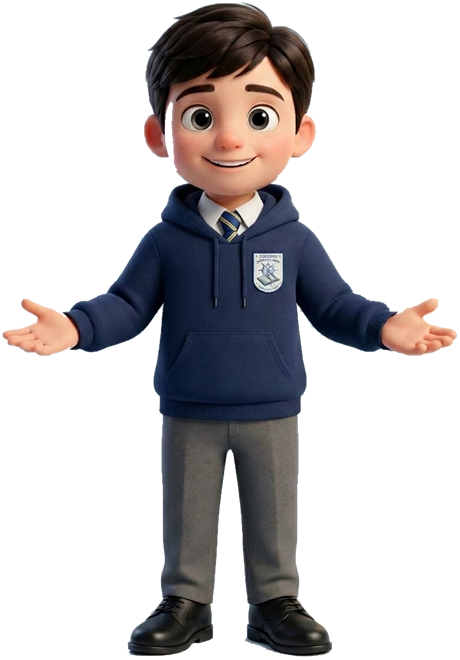
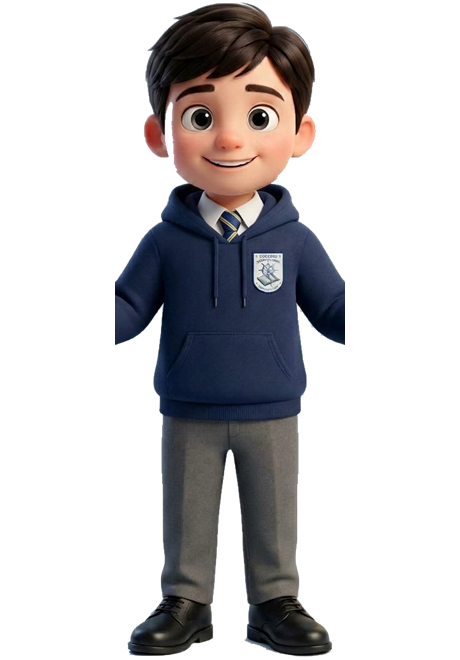
Add files via upload

Changed region(s): [[0.7304, 0.4242, 1.0, 0.5455], [0.0, 0.4242, 0.2739, 0.5455]]

diff --git a/admin.js b/admin.js
@@ -90,6 +90,109 @@
     });
     cerrar(); return html;
   }
+  // ---------- PDF formal del plan de trabajo ----------
+  var JSPDF = "https://cdnjs.cloudflare.com/ajax/libs/jspdf/2.5.1/jspdf.umd.min.js";
+  function latin(s) {
+    return String(s || "").replace(/[→⇒]/g, "->").replace(/[“”]/g, '"').replace(/[‘’]/g, "'").replace(/[●▪■◦]/g, "•").replace(/<br\s*\/?>/gi, " ")
+      .replace(/\*\*([^*]+)\*\*/g, "$1").replace(/`/g, "").replace(/[^\x09\x0A\x0D\x20-\x7E\xA0-\xFF€…•–—]/g, "");
+  }
+  function bloquesMd(t) {
+    var out = [], tabla = [];
+    String(t || "").split("\n").forEach(function (l) {
+      var m;
+      if (/^\s*\|.*\|\s*$/.test(l)) { var cs = l.trim().replace(/^\||\|$/g, "").split("|").map(function (x) { return x.trim(); }); if (!cs.every(function (x) { return /^:?-{2,}:?$/.test(x); })) tabla.push(cs); return; }
+      if (tabla.length) { out.push({ t: "tabla", filas: tabla }); tabla = []; }
+      if ((m = l.match(/^\s*#{1,4}\s+(.*)/))) out.push({ t: "h", x: m[1] });
+      else if ((m = l.match(/^\s*([-*•]|\d+[.)])\s+(.*)/))) out.push({ t: "li", x: m[2], n: /\d/.test(m[1]) ? m[1] : "•" });
+      else if (l.trim()) out.push({ t: "p", x: l });
+    });
+    if (tabla.length) out.push({ t: "tabla", filas: tabla });
+    return out;
+  }
+  function logoData() {
+    return fetch("logo.png").then(function (r) { return r.blob(); }).then(function (b) { return new Promise(function (ok) { var fr = new FileReader(); fr.onload = function () { ok(fr.result); }; fr.readAsDataURL(b); }); }).catch(function () { return null; });
+  }
+  function planPDF(texto, res) {
+    toast("Preparando PDF…");
+    Promise.all([cargar(JSPDF), logoData()]).then(function (v) {
+      var logo = v[1], doc = new window.jspdf.jsPDF({ unit: "mm", format: "a4" }), M = 18, W = 174, y = 0;
+      var info = {}; Object.keys(BASE.info).forEach(function (k) { info[k] = (cat && cat.info && cat.info[k]) || BASE.info[k]; });
+      var AZUL = [14, 42, 104], ORO = [245, 196, 0], TXT = [25, 33, 55];
+      function membrete() {
+        if (logo) try { doc.addImage(logo, "PNG", M, 9, 13.5, 17.4); } catch (e) { }
+        doc.setFont("helvetica", "bold"); doc.setFontSize(13); doc.setTextColor.apply(doc, AZUL); doc.text(latin(info.nombre), M + 17, 15);
+        doc.setFont("helvetica", "normal"); doc.setFontSize(8.5); doc.setTextColor(80, 90, 110);
+        doc.text(latin(info.dependencia + " · RBD " + info.rbd), M + 17, 19.6); doc.text(latin(info.direccion), M + 17, 23.4);
+        doc.setDrawColor.apply(doc, ORO); doc.setLineWidth(1); doc.line(M, 28, 210 - M, 28);
+        doc.setDrawColor.apply(doc, AZUL); doc.setLineWidth(.3); doc.line(M, 29.4, 210 - M, 29.4); y = 37;
+      }
+      function espacio(h) { if (y + h > 277) { doc.addPage(); membrete(); } }
+      function escribir(t, o) {
+        o = o || {}; doc.setFont("helvetica", o.b ? "bold" : (o.i ? "italic" : "normal")); doc.setFontSize(o.tam || 10.5); doc.setTextColor.apply(doc, o.color || TXT);
+        var sang = o.sang || 0, ls = doc.splitTextToSize(latin(t), W - sang), alto = (o.tam || 10.5) * .43;
+        ls.forEach(function (l, k) { espacio(alto + 1); if (k === 0 && o.vin) doc.text(o.vin, M + sang - 5, y); doc.text(l, M + sang, y); y += alto + 1.1; });
+        y += o.desp == null ? 1.8 : o.desp;
+      }
+      function tabla(filas, anchos) {
+        var nc = filas[0].length; anchos = anchos || filas[0].map(function () { return W / nc; }); doc.setFontSize(9);
+        filas.forEach(function (f, fi) {
+          var celdas = f.map(function (cx, ci) { return doc.splitTextToSize(latin(cx), anchos[ci] - 3); }), h = Math.max.apply(null, celdas.map(function (cx) { return cx.length; })) * 3.9 + 3, x = M;
+          espacio(h + 1);
+          celdas.forEach(function (cx, ci) {
+            if (fi === 0) { doc.setFillColor.apply(doc, AZUL); doc.rect(x, y - 3.5, anchos[ci], h, "F"); doc.setTextColor(255, 255, 255); doc.setFont("helvetica", "bold"); }
+            else { if (fi % 2 === 0) { doc.setFillColor(242, 246, 252); doc.rect(x, y - 3.5, anchos[ci], h, "F"); } doc.setDrawColor(214, 224, 240); doc.rect(x, y - 3.5, anchos[ci], h); doc.setTextColor.apply(doc, TXT); doc.setFont("helvetica", "normal"); }
+            cx.forEach(function (l, k) { doc.text(l, x + 1.5, y + k * 3.9); }); x += anchos[ci];
+          });
+          y += h;
+        });
+        y += 5;
+      }
+      membrete();
+      doc.setFont("helvetica", "bold"); doc.setFontSize(15); doc.setTextColor.apply(doc, AZUL);
+      doc.splitTextToSize("Plan de trabajo para la apropiación del Reglamento Interno y del Reglamento de Evaluación", W).forEach(function (l) { doc.text(latin(l), M, y); y += 6.5; });
+      y += 1;
+      var filasFicha = [["Fecha", new Date().toLocaleDateString("es-CL", { year: "numeric", month: "long", day: "numeric" })], ["Período analizado", res.mes || "Todo el registro"],
+        ["Rol analizado", res.rol || "Todos los roles"], ["Consultas analizadas", String(res.total || 0)], ["Fuente", "Estadísticas anónimas del asistente Timón (solo tema general y rol)"]];
+      doc.setFontSize(10); var altoF = 6 + filasFicha.length * 5.4;
+      doc.setFillColor(238, 243, 251); doc.setDrawColor(214, 224, 240); doc.roundedRect(M, y - 4, W, altoF, 2.5, 2.5, "FD");
+      filasFicha.forEach(function (f) { doc.setFont("helvetica", "bold"); doc.setTextColor.apply(doc, AZUL); doc.text(f[0] + ":", M + 4, y + 1); doc.setFont("helvetica", "normal"); doc.setTextColor.apply(doc, TXT); doc.text(latin(f[1]), M + 48, y + 1); y += 5.4; });
+      y += 8;
+      escribir("1. Resumen de las consultas", { b: true, tam: 12.5, color: AZUL, desp: 2 });
+      if (res.temas && res.temas.length) tabla([["Tema", "Consultas", "%"]].concat(res.temas.map(function (t) { return [t[0], String(t[1]), Math.round(t[1] * 100 / res.total) + "%"]; })), [124, 25, 25]);
+      if (res.roles && res.roles.length) tabla([["Rol", "Consultas", "Principal duda"]].concat(res.roles.map(function (r) { return [r[0], String(r[1]), r[2]]; })), [62, 25, 87]);
+      escribir("2. Propuesta de plan de trabajo", { b: true, tam: 12.5, color: AZUL, desp: 2 });
+      bloquesMd(texto).forEach(function (b) {
+        if (b.t === "h") { y += 1.5; espacio(10); escribir(b.x, { b: true, tam: 11.5, color: AZUL, desp: 1 }); }
+        else if (b.t === "p") escribir(b.x);
+        else if (b.t === "li") escribir(b.x, { sang: 6, vin: b.n, desp: .6 });
+        else if (b.t === "tabla") tabla(b.filas);
+      });
+      // Validación
+      y += 4; espacio(42);
+      escribir("3. Validación", { b: true, tam: 12.5, color: AZUL, desp: 6 });
+      doc.setFontSize(9.5); doc.setTextColor.apply(doc, TXT); doc.setFont("helvetica", "normal");
+      [["Elaborado por", M], ["Revisado por (UTP / Convivencia)", M + 60], ["Aprobado por (Dirección)", M + 120]].forEach(function (f) {
+        doc.setDrawColor(120, 130, 150); doc.line(f[1], y + 8, f[1] + 52, y + 8); doc.text(latin(f[0]), f[1], y + 13);
+      });
+      y += 22;
+      // Nota IA
+      espacio(22);
+      var nota = "Nota: la propuesta fue generada con apoyo de inteligencia artificial a partir de estadísticas anónimas de consultas (solo tema general y rol, sin datos personales, Ley N° 21.719). Debe ser revisada, ajustada y validada por el equipo directivo antes de su aplicación.";
+      doc.setFontSize(8.8); var ln = doc.splitTextToSize(latin(nota), W - 8);
+      doc.setFillColor(255, 248, 214); doc.setDrawColor(217, 164, 0); doc.roundedRect(M, y - 4, W, ln.length * 3.9 + 5, 2, 2, "FD");
+      doc.setFont("helvetica", "italic"); doc.setTextColor(90, 70, 0); ln.forEach(function (l, k) { doc.text(l, M + 4, y + .5 + k * 3.9); });
+      var n = doc.getNumberOfPages();
+      for (var i = 1; i <= n; i++) {
+        doc.setPage(i); doc.setDrawColor(214, 224, 240); doc.setLineWidth(.3); doc.line(M, 284, 210 - M, 284);
+        doc.setFont("helvetica", "normal"); doc.setFontSize(8); doc.setTextColor(110, 120, 140);
+        doc.text(latin("Plan de trabajo · " + info.nombre + " · Generado con el asistente Timón"), M, 289);
+        doc.text("Página " + i + " de " + n, 210 - M, 289, { align: "right" });
+      }
+      doc.save("Plan_de_trabajo_Reglamento_" + new Date().toISOString().slice(0, 10) + ".pdf");
+      toast("PDF descargado");
+    }).catch(function () { toast("No se pudo crear el PDF. Revise su conexión.", 4000); });
+  }
+
   function pStats(c) {
     c.innerHTML = '<div class="tarjeta"><p>Cargando estadísticas…</p></div>';
     api({ accion: "estadisticas" }).then(function (j) {
@@ -100,6 +203,9 @@
       c.innerHTML = '<div class="tarjeta"><h2>' + I.grafico + ' Estadísticas de consultas</h2><p class="ayuda">Se cuenta solo el <b>tema general</b> y el <b>rol</b> de cada consulta, de forma anónima (nunca el texto). Úselo para detectar las principales dudas de cada estamento y orientar un plan de trabajo de apropiación del reglamento.</p>' +
         '<div class="rejilla" style="max-width:560px"><div class="campo"><label for="fMes">Período</label><select id="fMes"><option value="">Todo el registro</option>' + meses.slice().reverse().map(function (m) { return "<option>" + esc(m) + "</option>"; }).join("") + "</select></div>" +
         '<div class="campo"><label for="fRol">Rol</label><select id="fRol"><option value="">Todos los roles</option>' + rolesTodos.map(function (r) { return "<option>" + esc(r) + "</option>"; }).join("") + "</select></div></div>" +
+        '<div class="acciones-fila" style="margin:0 0 12px;align-items:center"><button class="boton sec" id="btnActualizar" type="button">↻ Actualizar conteo</button>' +
+        '<button class="boton peligro" id="btnReiniciar" type="button">' + I.basura + ' Reiniciar conteo</button><span class="contador" id="contador">Total registrado: <b>' +
+        filas.reduce(function (a, f) { return a + f.n; }, 0) + "</b> consultas · actualizado a las " + new Date().toLocaleTimeString("es-CL", { hour: "2-digit", minute: "2-digit" }) + "</span></div>" +
         '<div id="kpis" class="kpis"></div>' +
         '<div class="graf-caja"><h3>Consultas por rol y su principal duda</h3><div id="tablaRoles"></div></div>' +
         '<div class="rejilla"><div class="graf-caja"><h3>Consultas por rol</h3><div style="position:relative;height:250px"><canvas id="gRoles"></canvas></div></div><div class="graf-caja"><h3>Evolución mensual</h3><div style="position:relative;height:250px"><canvas id="gMeses"></canvas></div></div></div>' +
@@ -108,6 +214,15 @@
         '<div class="graf-caja"><h3>Temas consultados (total)</h3><div style="position:relative;height:340px"><canvas id="gTemas"></canvas></div><div id="tablaTemas"></div></div>' +
         '<div class="acciones-fila"><button class="boton" id="btnPlan">' + I.brujula + ' Generar plan de trabajo con IA</button><button class="boton sec" id="btnCsv">' + I.archivo + ' Descargar datos (CSV)</button></div><div id="plan"></div></div>';
       function corto(t, max) { return t.length > max ? t.slice(0, max - 1) + "…" : t; }
+      var resumen = null;
+      $("#btnActualizar").onclick = function () { pStats(c); };
+      $("#btnReiniciar").onclick = function () {
+        if (!confirm("¿Reiniciar el conteo de consultas a cero?\n\nSe guardará una copia de respaldo en la hoja de datos de Drive (pestaña \"Respaldo\").")) return;
+        api({ accion: "reiniciar_estadisticas" }).then(function (r) {
+          if (r.ok) { toast(r.respaldo ? "Conteo reiniciado. Respaldo: " + r.respaldo : "Conteo reiniciado", 4000); pStats(c); }
+          else msg(c, "mal", r.error || "No se pudo reiniciar");
+        }).catch(function () { });
+      };
       function dibujar() {
         var mes = $("#fMes").value, rolF = $("#fRol").value, porTema = {}, porRol = {}, porMes = {}, cruce = {}, total = 0;
         filas.forEach(function (f) {
@@ -118,6 +233,7 @@
         });
         var temas = Object.keys(porTema).sort(function (a, b) { return porTema[b] - porTema[a]; }), roles = Object.keys(porRol).sort(function (a, b) { return porRol[b] - porRol[a]; });
         function principal(r) { return Object.keys(cruce[r]).sort(function (a, b) { return cruce[r][b] - cruce[r][a]; })[0]; }
+        resumen = { mes: mes, rol: rolF, total: total, temas: temas.map(function (t) { return [t, porTema[t]]; }), roles: roles.map(function (r) { return [r, porRol[r], principal(r)]; }) };
         $("#kpis").innerHTML = [["Consultas", total], ["Tema principal", temas[0] || "—"], ["Rol que más consulta", roles[0] || "—"]].map(function (k) { return '<div class="kpi"><b>' + esc(k[1]) + "</b><span>" + esc(k[0]) + "</span></div>"; }).join("");
         var vacio = '<div class="mensaje info">Aún no hay consultas registradas para este filtro. Aparecerán a medida que la comunidad use el chat (después de actualizar Apps Script y GitHub).</div>';
         $("#tablaRoles").innerHTML = total ? '<table class="tabla-stats"><tr><th>Rol</th><th>Consultas</th><th>%</th><th>Principal duda</th></tr>' + roles.map(function (r) {
@@ -147,9 +263,13 @@
       };
       $("#btnPlan").onclick = function () {
         var b = this; b.disabled = true; $("#plan").innerHTML = '<div class="mensaje info">Preparando la propuesta de plan de trabajo por rol…</div>';
+        var foto = JSON.parse(JSON.stringify(resumen || {}));
         api({ accion: "plan_trabajo", mes: $("#fMes").value, rol: $("#fRol").value }).then(function (r) {
           b.disabled = false;
-          $("#plan").innerHTML = r.ok ? '<div class="plan-caja">' + mdSimple(r.texto) + '<p class="ayuda" style="font-size:.8rem">Propuesta generada con IA a partir de ' + r.total + " consultas. Revísela y ajústela con el equipo directivo.</p></div>" : '<div class="mensaje mal">' + esc(r.error) + "</div>";
+          if (!r.ok) { $("#plan").innerHTML = '<div class="mensaje mal">' + esc(r.error) + "</div>"; return; }
+          $("#plan").innerHTML = '<div class="plan-caja"><div class="acciones-fila" style="margin:0 0 10px"><button class="boton amarillo" id="btnPlanPdf" type="button">' + I.archivo + ' Descargar plan en PDF</button></div>' +
+            mdSimple(r.texto) + '<p class="ayuda" style="font-size:.8rem">Propuesta generada con IA a partir de ' + r.total + " consultas. Revísela y ajústela con el equipo directivo.</p></div>";
+          $("#btnPlanPdf").onclick = function () { planPDF(r.texto, foto); };
         }).catch(function () { b.disabled = false; });
       };
     }).catch(function () { });

diff --git a/app.js b/app.js
@@ -170,8 +170,8 @@
   var EVAL = /evaluaci|calific|nota|prueba|promoci|repit|examen|reevalu|eximi|adecuaci|asistencia/i;
   // Temas generales (solo se cuenta el tema, de forma anónima, para las estadísticas del panel)
   var TEMAS = [
-    ["Protección de derechos y salud mental", /vulnera|abuso|connotaci[oó]n sexual|agresi[oó]n sexual|suicid|autoles|droga|alcohol|embaraz|maternidad|paternidad|medicament/i],
-    ["Acoso, violencia y maltrato", /acoso|bullying|ciberacoso|ciberbullying|violen|agresi|pelea|golpe|maltrato|discrimin|amenaz/i],
+    ["Protección de derechos y salud mental", /vulnera|abuso|connotaci[oó]n sexual|agresi[oó]n sexual|suicid|autoles|droga|marihuana|alcohol|embaraz|maternidad|paternidad|medicament/i],
+    ["Acoso, violencia y maltrato", /\bpeg[oóaué]|pegar|patad|pu[nñ]et|\bcombos?\b|herid|acoso|bullying|ciberacoso|ciberbullying|violen|agresi|pelea|golpe|maltrato|discrimin|amenaz/i],
     ["Faltas, medidas y debido proceso", /falta|sanci[oó]n|sanciones|medida|suspen|expuls|cancelaci[oó]n|condicional|debido proceso|anotaci|disciplin|aula segura/i],
     ["Inclusión, NEE, PIE y TEA", /\bpie\b|\bnee\b|\btea\b|autis|adecuaci|\bpaci\b|\bpai\b|diversific|diferenciad|desregula|inclusi/i],
     ["Promoción, asistencia y repitencia", /promoci|repit|asistencia|inasistencia|cierre anticipado|85 ?%/i],
@@ -181,7 +181,14 @@
     ["Normas generales (uniforme, horarios, celular)", /uniforme|presentaci[oó]n personal|celular|horario|atraso|puntualidad|recreo|comedor|laboratorio/i],
     ["PEI, misión y sellos", /\bpei\b|misi[oó]n|visi[oó]n|sello|valores/i]
   ];
-  function clasificarTema(t) { for (var i = 0; i < TEMAS.length; i++) if (TEMAS[i][1].test(t)) return TEMAS[i][0]; return "Otros temas"; }
+  function esAusenciaEvaluacion(t) { return INTENCIONES[0][0].test(t); }   // "faltó a una prueba" no es una falta disciplinaria
+  function clasificarTema(t) {
+    if (esAusenciaEvaluacion(t) && !/sanci|anotaci|disciplin|copi|plagi/i.test(t)) return "Evaluación y calificaciones";
+    for (var i = 0; i < TEMAS.length; i++) if (TEMAS[i][1].test(t)) return TEMAS[i][0]; return "Otros temas"; }
+  // Hechos que podrían ser delito: se agrega la revisión penal (denuncia, Ley 20.084, Código Penal y Civil)
+  var RE_DELITO = /\bpeg[oóaué]|pegar|patad|pu[nñ]et|\bcombos?\b|herid|sangr|quebr|fractur|golpe|golpi|agresi[oó]n f[ií]sica|agredi|lesi[oó]n|lesiones|pelea|amenaz|abus|acoso sexual|connotaci[oó]n sexual|violaci[oó]n|tocaci|grooming|im[aá]genes [ií]ntimas|fotos [ií]ntimas|video [ií]ntimo|nudes|sexting|droga|marihuana|tr[aá]fico|microtr[aá]fico|\barmas?\b|cuchillo|navaja|pistola|robo|rob[oó]|hurt|da[nñ]os? a|destroz|vandal|incendi|extorsi|maltrato (f[ií]sico|de un adulto|por parte)|funcionario (agred|golpe|maltrat)|ciberacoso|suplantaci[oó]n de identidad|delito/i;
+  // Consultas donde conviene recordar derechos de los estudiantes (LGE arts. 10, 10 bis y 11)
+  var RE_DERECHOS = /derecho|celular|tel[eé]fono|dispositivo|embaraz|maternidad|paternidad|matr[ií]cula|repit|discrimin|medicament|tdah|identidad de g[eé]nero|nombre social|religi|opini[oó]n|inclusi|\btea\b|autis|\bnee\b|\bpie\b|expuls|cancelaci|suspen|condicional|uniforme|corte de pelo|cabello|retir/i;
   var RE_DISCIPLINA = /falta|sanci[oó]n|sanciones|medida disciplin|suspen|expuls|cancelaci[oó]n de matr|condicionalidad|debido proceso|aula segura|anotaci/i;
   function buscar(consulta, k) {
     if (!indice) construirIndice();
@@ -218,7 +225,7 @@
   }
   function normativaPara(consulta, n) {
     var q = terminos(consulta, true), lista = BASE.normativa.concat([]);
-    return lista.map(function (x) { var t = terminos(x.claves + " " + x.titulo), s = 0; q.forEach(function (w) { if (t.indexOf(w) >= 0) s++; }); return { x: x, s: s }; })
+    return lista.map(function (x) { var t = terminos(x.claves), s = 0; q.forEach(function (w) { if (t.indexOf(w) >= 0) s++; }); return { x: x, s: s }; })
       .filter(function (o) { return o.s > 0; }).sort(function (a, b) { return b.s - a.s; }).slice(0, n || 4).map(function (o) { return o.x; });
   }
   function fuentesPara(consulta, n) {
@@ -340,6 +347,7 @@
   function mascotaHTML(clase) {
     var d = "animation-delay:" + (Math.random() * 3).toFixed(2) + "s", d2 = "animation-delay:-" + (Math.random() * 2).toFixed(2) + "s";
     return '<div class="mascota ' + (clase || "") + '" style="' + d2 + '"><div class="encuadre"><img src="estudiante.png" alt="">' +
+      '<img class="brazo izq" src="brazo-izq.png" alt=""><img class="brazo der" src="brazo-der.png" alt="">' +
       '<span class="boca"></span><span class="parpado izq" style="' + d + '"></span><span class="parpado der" style="' + d + '"></span></div></div>';
   }
   function bajar() { setTimeout(function () { chat.scrollTo({ top: chat.scrollHeight, behavior: "auto" }); }, 30); }
@@ -466,6 +474,7 @@
     return x.replace(/(^|\n)\s*[-*]\s+/g, "$1• ").replace(/\n/g, "<br>");
   }
   var ICONOS_TITULO = [
+    [/delito|denuncia/i, "alerta", "#8E1B1B"],
     [/ajusta a derecho|a derecho/i, "balanza", "#C0392B"],
     [/en breve|resumen/i, "bombilla", "#D9A400"],
     [/profundizar/i, "timon", "#0E2A68"],
@@ -620,13 +629,27 @@
     if (!opts.sinEco) msgYo(texto);
     if (estado.pasoPerfil !== "listo") estado.pasoPerfil = "listo"; // nunca obligamos a marcar el perfil
     var consultaBusqueda = opts.esRespuesta ? ultimaConsulta() + " " + texto : texto;
-    var frags = buscar(consultaBusqueda, 5);
-    var tema = clasificarTema(consultaBusqueda), disciplinario = tema === "Faltas, medidas y debido proceso" || RE_DISCIPLINA.test(consultaBusqueda);
+    var frags = buscar(consultaBusqueda, 4);
+    var tema = clasificarTema(consultaBusqueda), delito = RE_DELITO.test(consultaBusqueda);
+    var disciplinario = delito || tema === "Faltas, medidas y debido proceso" || (RE_DISCIPLINA.test(consultaBusqueda) && !(esAusenciaEvaluacion(consultaBusqueda) && !/sanci|anotaci|disciplin|suspen|expuls/i.test(consultaBusqueda)));
     var normativa = normativaPara(consultaBusqueda, 5);
-    if (disciplinario) ["20370", "20536", "21128", "21430"].forEach(function (n) {
-      var x = BASE.normativa.filter(function (k) { return k.url.indexOf("idLey=" + n) > 0; })[0];
+    function agregarNorma(id) {
+      var x = BASE.normativa.filter(function (k) { return k.url.slice(-(id.length + 1)) === "=" + id || k.url.indexOf("=" + id + "&") > 0; })[0];
       if (x && normativa.indexOf(x) < 0) normativa.push(x);
-    });
+    }
+    var derechos = RE_DERECHOS.test(consultaBusqueda);
+    if (derechos) agregarNorma("20370");
+    if (disciplinario) ["20370", "20536", "21128", "21430"].forEach(agregarNorma);
+    if (delito) {
+      var previas = normativa.filter(function (n) { return n.categoria !== "Responsabilidad penal y civil" && n.categoria !== "Inclusión y diversidad" && n.categoria !== "Evaluación y currículum"; });
+      normativa = [];
+      ["19696", "1984", "20084", "172986", "19968"].forEach(agregarNorma);
+      if (/droga|marihuana|tr[aá]fico/i.test(consultaBusqueda)) agregarNorma("20000");
+      if (/\barmas?\b|cuchillo|navaja|pistola/i.test(consultaBusqueda)) agregarNorma("17798");
+      previas.forEach(function (n) { if (normativa.indexOf(n) < 0) normativa.push(n); });
+      if (/\btea\b|autis/i.test(consultaBusqueda)) agregarNorma("21545");
+    }
+    normativa = normativa.slice(0, 12);
     // Mensaje de espera: Timón (cuerpo completo) "habla" mientras se prepara la respuesta
     var pensando = el("div", "msg ia pensando");
     pensando.innerHTML = '<div class="avatar grande">' + mascotaHTML("hablando") + '</div><div class="burbuja"><div class="escribiendo"><i></i><i></i><i></i><span>Revisando el Reglamento Interno…</span></div></div>';
@@ -637,10 +660,10 @@
 
     var cat = catalogoEfectivo();
     var payload = {
-      accion: "chat", consulta: texto, modo: "chat", web: estado.web, tema: tema, disciplinario: disciplinario,
-      historial: estado.mensajes.slice(-6).map(function (m) { return { role: m.role, content: m.content.slice(0, 1500) }; }),
+      accion: "chat", consulta: texto, modo: "chat", web: estado.web, tema: tema, disciplinario: disciplinario, delito: delito, derechos: derechos, video: /video|youtube/i.test(texto),
+      historial: estado.mensajes.slice(-4).map(function (m) { return { role: m.role, content: m.content.slice(0, 900) }; }),
       perfil: estado.perfil,
-      fragmentos: frags.map(function (r) { return { fuente: etiquetaFuente(r.f), texto: r.f.t.slice(0, 1400) }; }),
+      fragmentos: frags.map(function (r) { return { fuente: etiquetaFuente(r.f), texto: r.f.t.slice(0, 1150) }; }),
       normativa: normativa.map(function (n) { return n.titulo + " → " + n.url; }),
       pei: { mision: cat.pei.mision, vision: cat.pei.vision, sellos: cat.pei.sellos, valores: cat.pei.valores, historia: (cat.pei.historia || "").slice(0, 600) },
       info: cat.info, fecha: new Date().toISOString().slice(0, 10)
@@ -652,6 +675,8 @@
       mostrarRespuesta({ consulta: texto, texto: resp.texto, frags: frags, normativa: normativa, local: !!local, videos: resp.videos || [], aviso: resp.aviso, busqueda: consultaBusqueda,
         servidor: (resp.fuentesServidor || []).filter(function (s) { return s && s.titulo && new RegExp("\\[S\\d\\]|" + String(s.titulo).slice(0, 20).replace(/[.*+?^${}()|[\]\\]/g, "\\$&"), "i").test(resp.texto); }) });
     };
+    // Estadística anónima (tema y rol) en paralelo: no retrasa la respuesta
+    if (URL_SERVIDOR) fetch(URL_SERVIDOR, { method: "POST", headers: { "Content-Type": "text/plain;charset=utf-8" }, body: JSON.stringify({ accion: "contar", tema: tema, rol: estado.perfil.rol }) }).catch(function () { });
     if (!URL_SERVIDOR) { setTimeout(function () { fin({ texto: respuestaLocal(consultaBusqueda, frags, normativa, "sin-servidor") }, true); }, 500); return; }
     pedirIA(payload, 0).then(function (r) {
       if (r && r.ok && r.texto) { marcarEstado("ok"); fin(r, false); }
@@ -757,7 +782,7 @@
     if (matchMedia("(prefers-reduced-motion: reduce)").matches) { hablar(m, 4000); return; } // sin efecto de escritura, pero Timón igual habla
     var largos = partes.map(function (p) { return Math.max(20, (p.textContent || "").length); });
     var total = largos.reduce(function (a, b) { return a + b; }, 0);
-    var tiempo = Math.min(16000, Math.max(2500, total * 9));        // duración total de la "escritura"
+    var tiempo = Math.min(5000, Math.max(1200, total * 3.5));       // duración total de la "escritura" (rápida)
     var seguir = true, terminado = false, k = 0, reloj = null;
     partes.forEach(function (p) { p.classList.add("por-mostrar"); });
     m.classList.add("escribiendo-respuesta");

diff --git a/datos.js b/datos.js
@@ -45,7 +45,7 @@ window.DATOS_BASE = {
   ],
   /* Normativa con enlaces verificados en la Biblioteca del Congreso Nacional (BCN) */
   normativa: [
-    { titulo: "Ley 20.370 – Ley General de Educación", url: "https://www.bcn.cl/leychile/navegar?idLey=20370", categoria: "Leyes generales", claves: "lge ley general educacion derechos deberes reglamento interno" },
+    { titulo: "Ley 20.370 – Ley General de Educación", url: "https://www.bcn.cl/leychile/navegar?idLey=20370", categoria: "Leyes generales", claves: "lge ley general educacion derechos deberes reglamento interno celular celulares dispositivos moviles embarazo maternidad matricula" },
     { titulo: "Ley 21.040 – Sistema de Educación Pública (SLEP)", url: "https://www.bcn.cl/leychile/navegar?idLey=21040", categoria: "Leyes generales", claves: "slep servicio local educacion publica nep" },
     { titulo: "Ley 20.529 – Sistema de Aseguramiento de la Calidad", url: "https://www.bcn.cl/leychile/navegar?idLey=20529", categoria: "Leyes generales", claves: "calidad superintendencia agencia sac" },
     { titulo: "Ley 20.536 – Sobre Violencia Escolar", url: "https://www.bcn.cl/leychile/navegar?idLey=20536", categoria: "Convivencia escolar", claves: "violencia escolar acoso bullying maltrato convivencia encargado" },
@@ -62,6 +62,13 @@ window.DATOS_BASE = {
     { titulo: "Ley 20.903 – Sistema de Desarrollo Profesional Docente", url: "https://www.bcn.cl/leychile/navegar?idLey=20903", categoria: "Funcionarios", claves: "carrera docente desarrollo profesional mentoria" },
     { titulo: "Ley 21.109 – Estatuto de Asistentes de la Educación Pública", url: "https://www.bcn.cl/leychile/navegar?idLey=21109", categoria: "Funcionarios", claves: "asistentes educacion estatuto funciones" },
     { titulo: "Ley 21.643 – Ley Karin (acoso laboral y sexual)", url: "https://www.bcn.cl/leychile/navegar?idLey=21643", categoria: "Funcionarios", claves: "karin acoso laboral sexual violencia trabajo funcionarios" },
+    { titulo: "Código Procesal Penal – Obligación de denunciar (arts. 175 a 177)", url: "https://www.bcn.cl/leychile/navegar?idLey=19696", categoria: "Responsabilidad penal y civil", claves: "denuncia denunciar obligacion fiscalia carabineros pdi 24 horas delito" },
+    { titulo: "Código Penal", url: "https://www.bcn.cl/leychile/navegar?idNorma=1984", categoria: "Responsabilidad penal y civil", claves: "delito lesiones amenazas abuso sexual robo hurto danos imagenes intimas acoso" },
+    { titulo: "Ley 20.084 – Responsabilidad Penal Adolescente", url: "https://www.bcn.cl/leychile/navegar?idLey=20084", categoria: "Responsabilidad penal y civil", claves: "responsabilidad penal adolescente 14 18 anos menor edad" },
+    { titulo: "Código Civil – Responsabilidad por hechos de otros (arts. 2319 a 2321)", url: "https://www.bcn.cl/leychile/navegar?idNorma=172986", categoria: "Responsabilidad penal y civil", claves: "responsabilidad civil dano indemnizacion padres colegio cuidado" },
+    { titulo: "Ley 19.968 – Tribunales de Familia", url: "https://www.bcn.cl/leychile/navegar?idLey=19968", categoria: "Responsabilidad penal y civil", claves: "tribunal familia proteccion medida menor 14 vulneracion" },
+    { titulo: "Ley 20.000 – Tráfico de Estupefacientes (drogas)", url: "https://www.bcn.cl/leychile/navegar?idLey=20000", categoria: "Responsabilidad penal y civil", claves: "droga drogas marihuana trafico microtrafico consumo estupefacientes" },
+    { titulo: "Ley 17.798 – Control de Armas", url: "https://www.bcn.cl/leychile/navegar?idLey=17798", categoria: "Responsabilidad penal y civil", claves: "arma armas cuchillo pistola porte fuego" },
     { titulo: "Ley 21.719 – Protección de Datos Personales", url: "https://www.bcn.cl/leychile/navegar?idLey=21719", categoria: "Datos personales", claves: "datos personales privacidad proteccion confidencialidad" }
   ],
   /* Sitios oficiales (verificados) para "Fuentes externas sugeridas" */

diff --git a/estilos.css b/estilos.css
@@ -77,9 +77,20 @@ svg{width:1.15em;height:1.15em;vertical-align:-.2em;flex:none}
 .encuadre img{width:100%;height:auto;display:block;user-select:none;-webkit-user-drag:none}
 .mascota .boca{position:absolute;left:46.6%;top:24.2%;width:6.8%;height:2.6%;border-radius:40% 40% 55% 55%;
   background:radial-gradient(ellipse at 50% 80%,#c24b5a 0%,#7a1f2e 60%,#4a0f1b 100%);opacity:0;transform-origin:50% 30%;box-shadow:inset 0 2px 0 #fff8}
-/* Siempre "vivo": respira y se balancea suavemente */
-.mascota{animation:respira 3.2s ease-in-out infinite;transform-origin:50% 100%;will-change:transform}
-@keyframes respira{0%,100%{transform:rotate(0) translateY(0) scale(1)}30%{transform:rotate(-1.4deg) translateY(-2px) scale(1.012)}70%{transform:rotate(1.4deg) translateY(-1px) scale(1.006)}}
+/* Siempre "vivo": respira suavemente; los brazos se mueven apenas */
+.mascota{animation:respira 3.4s ease-in-out infinite;transform-origin:50% 100%;will-change:transform}
+@keyframes respira{0%,100%{transform:translateY(0) scale(1)}50%{transform:translateY(-1.5px) scale(1.01)}}
+/* Brazos: capas separadas que giran desde el codo */
+.encuadre .brazo{position:absolute;inset:0;width:100%;height:auto;pointer-events:none;will-change:transform}
+.encuadre .brazo.izq{transform-origin:26% 47.3%;animation:reposo-izq 3.4s ease-in-out infinite}
+.encuadre .brazo.der{transform-origin:74% 47.3%;animation:reposo-der 3.4s ease-in-out infinite}
+@keyframes reposo-izq{0%,100%{transform:rotate(0)}50%{transform:rotate(3deg)}}
+@keyframes reposo-der{0%,100%{transform:rotate(0)}50%{transform:rotate(-3deg)}}
+/* Al hablar: gesticula con las manos (el cuerpo casi no se mueve) */
+.mascota.hablando .brazo.izq{animation:gesto-izq 1.5s ease-in-out infinite}
+.mascota.hablando .brazo.der{animation:gesto-der 1.5s ease-in-out infinite;animation-delay:-.55s}
+@keyframes gesto-izq{0%,100%{transform:rotate(0)}20%{transform:rotate(16deg)}40%{transform:rotate(4deg)}60%{transform:rotate(12deg)}80%{transform:rotate(-5deg)}}
+@keyframes gesto-der{0%,100%{transform:rotate(0)}25%{transform:rotate(-14deg)}45%{transform:rotate(-3deg)}65%{transform:rotate(-17deg)}85%{transform:rotate(4deg)}}
 /* Parpadeo: párpados color piel que bajan y suben rápido */
 .parpado{position:absolute;top:15.6%;width:7.4%;height:4.8%;border-radius:50% 50% 45% 45%;transform-origin:50% 0;transform:scaleY(0);
   background:radial-gradient(ellipse at 50% 30%,#f6c8a8 0%,#eab092 70%,#dc9c7c 100%);box-shadow:inset 0 -2px 0 #3d2419,0 1px 1px rgba(80,40,20,.25);animation:parpadeo 4.2s infinite;pointer-events:none}
@@ -87,9 +98,9 @@ svg{width:1.15em;height:1.15em;vertical-align:-.2em;flex:none}
 .parpado.der{left:53.3%}
 @keyframes parpadeo{0%,90%,100%{transform:scaleY(0)}93%,95%{transform:scaleY(1)}}
 .mascota.hablando .boca{opacity:1;animation:boca .2s ease-in-out infinite alternate}
-.mascota.hablando{animation:cabeceo .9s ease-in-out infinite;transform-origin:50% 100%}
+.mascota.hablando{animation:cabeceo 1.5s ease-in-out infinite;transform-origin:50% 100%}
 @keyframes boca{from{transform:scaleY(.2) scaleX(.85)}to{transform:scaleY(1.2) scaleX(1)}}
-@keyframes cabeceo{0%,100%{transform:rotate(0) translateY(0) scale(1)}20%{transform:rotate(-3deg) translateY(-3px) scale(1.01)}50%{transform:rotate(0) translateY(-1px) scale(1.02)}80%{transform:rotate(3deg) translateY(-3px) scale(1.01)}}
+@keyframes cabeceo{0%,100%{transform:translateY(0)}25%{transform:translateY(-1.5px)}50%{transform:translateY(0)}75%{transform:translateY(-1px)}}
 .por-mostrar{opacity:0;transform:translateY(6px)}
 .mostrado{animation:aparecer .35s ease both}
 /* Efecto de escritura: cada bloque aparece de arriba hacia abajo mientras Timón habla */

diff --git a/sw.js b/sw.js
@@ -1,10 +1,10 @@
 /* Service worker – permite instalar la app y usarla sin conexión.
    IMPORTANTE: cada vez que cambie archivos en GitHub, suba este número (v1.0.1, v1.0.2…)
    para que los celulares descarguen la versión nueva. */
-var VERSION = "timon-v1.3.0";
+var VERSION = "timon-v1.5.0";
 var BASICOS = [
   "./", "index.html", "estilos.css", "app.js", "config.js", "datos.js", "conocimiento.js", "manifest.json",
-  "logo.png", "estudiante.png", "favicon.png", "icono-192.png", "icono-512.png", "icono-maskable-512.png", "apple-touch-icon.png"
+  "logo.png", "estudiante.png", "brazo-izq.png", "brazo-der.png", "favicon.png", "icono-192.png", "icono-512.png", "icono-maskable-512.png", "apple-touch-icon.png"
 ];
 
 self.addEventListener("install", function (e) {

diff --git a/admin.html b/admin.html
@@ -51,6 +51,7 @@
   .tabla-stats{border-collapse:collapse;width:100%;margin:6px 0 14px;font-size:.92rem}
   .tabla-stats th{background:var(--marino);color:#fff;text-align:left;padding:8px}
   .tabla-stats td{padding:7px 8px;border-top:1px solid var(--borde)}
+  .contador{font-size:.88rem;color:var(--texto-suave);background:var(--superficie-2);border:1px solid var(--borde);border-radius:99px;padding:6px 12px}
   .plan-caja{margin-top:14px;padding:14px 16px;border-radius:14px;border:2px solid var(--amarillo);background:var(--superficie-2)}
   @media (max-width:640px){.rejilla,.cargo .rejilla{grid-template-columns:1fr}}
 </style>
